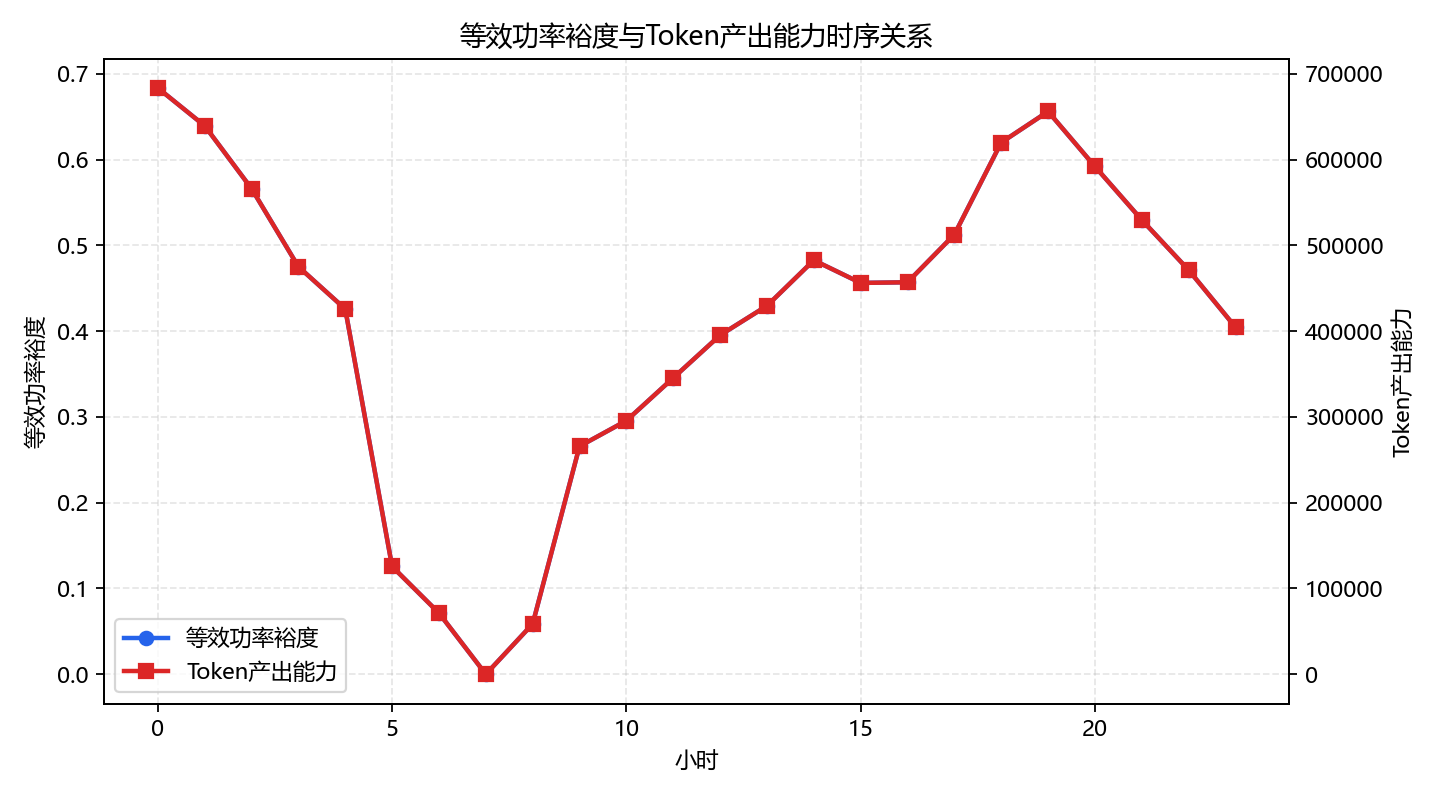
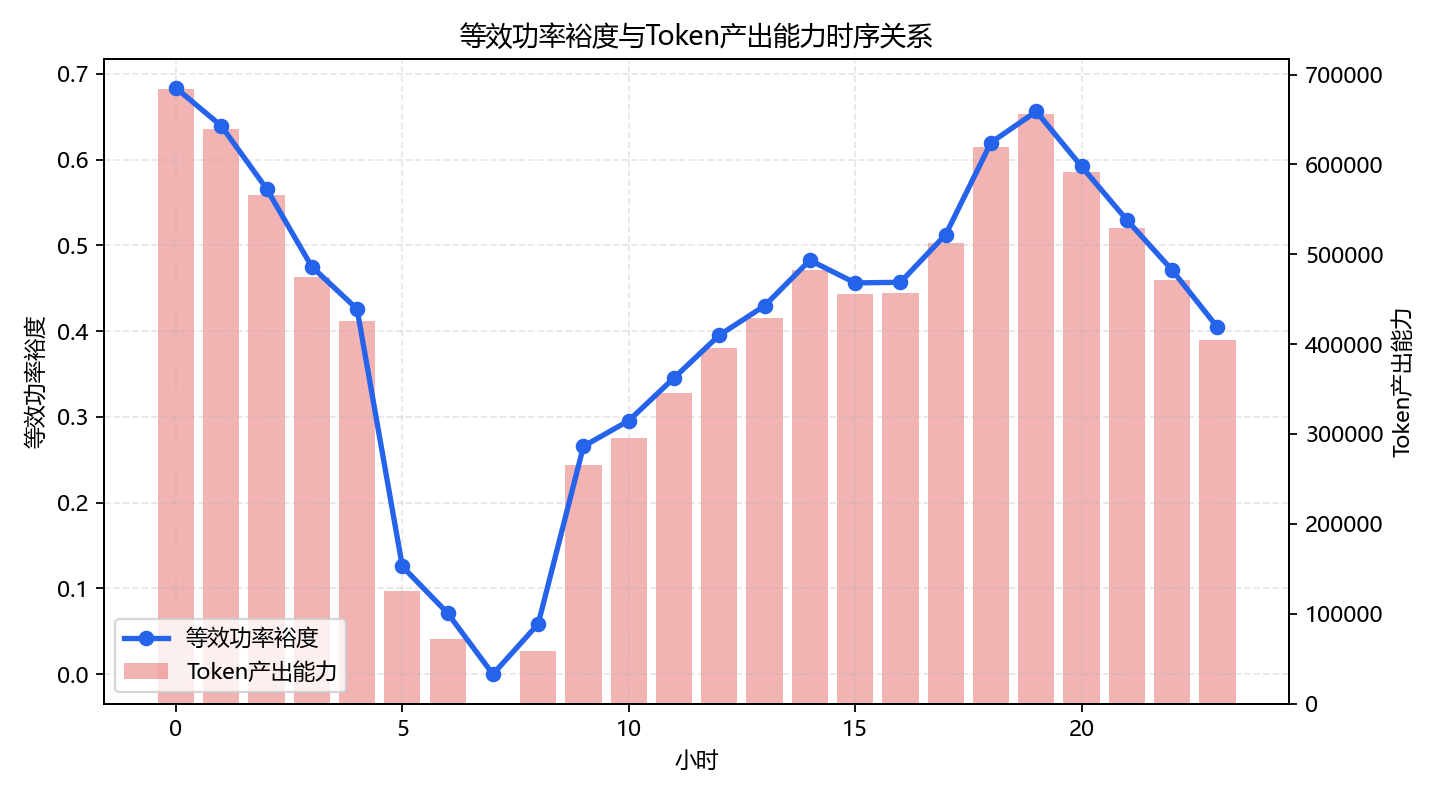
更改图片

diff --git a/experiments/exp_token_export.py b/experiments/exp_token_export.py
@@ -354,6 +354,40 @@ def _plot_bar(df: pd.DataFrame, x: str, y: str, path: Path, title: str, ylabel: 
     plt.close(fig)
 
 
+def _plot_profit_latency_tradeoff(summary: pd.DataFrame, output_dir: Path) -> None:
+    setup_chinese_matplotlib()
+    import matplotlib.pyplot as plt
+
+    plot_df = summary.copy()
+    plot_df["strategy_label"] = plot_df["strategy"].map(STRATEGY_LABELS).fillna(plot_df["strategy"])
+
+    fig, ax1 = plt.subplots(figsize=(9, 5))
+    bars = ax1.bar(plot_df["strategy_label"], plot_df["net_token_profit"], color="#2563eb", label="Token净收益")
+    ax1.set_title("Token出口策略收益与时延权衡对比")
+    ax1.set_xlabel("策略")
+    ax1.set_ylabel("Token净收益")
+    ax1.tick_params(axis="x", rotation=20)
+    ax1.grid(True, axis="y", linestyle="--", alpha=0.3)
+
+    ax2 = ax1.twinx()
+    line = ax2.plot(
+        plot_df["strategy_label"],
+        plot_df["avg_cross_timezone_delay"],
+        marker="o",
+        linewidth=2,
+        color="#dc2626",
+        label="平均跨时区时延",
+    )
+    ax2.set_ylabel("平均跨时区时延/h")
+
+    handles = [bars, line[0]]
+    labels = ["Token净收益", "平均跨时区时延"]
+    ax1.legend(handles, labels, loc="best")
+    fig.tight_layout()
+    fig.savefig(output_dir / "token_profit_latency_tradeoff.png")
+    plt.close(fig)
+
+
 def _plot_sensitivity(sensitivity: pd.DataFrame, output_dir: Path) -> None:
     setup_chinese_matplotlib()
     import matplotlib.pyplot as plt
@@ -418,6 +452,7 @@ def _plot_outputs(summary: pd.DataFrame, hourly_results: pd.DataFrame, region_re
     _plot_region_export(plot_region_results, output_dir)
     _plot_bar(plot_summary, "strategy", "net_token_profit", output_dir / "token_profit_comparison.png", "不同Token出口策略净收益对比", "净收益")
     _plot_bar(plot_summary, "strategy", "avg_cross_timezone_delay", output_dir / "cross_timezone_latency.png", "不同Token出口策略跨时区服务时延对比", "平均时延/h")
+    _plot_profit_latency_tradeoff(plot_summary, output_dir)
 
     # Rebuild the curve from RH-TEO rows so the x-axis is the fused margin.
     rh_rows = hourly_results[hourly_results["strategy"] == "RH-TEO"].sort_values("token_capacity")
@@ -431,15 +466,31 @@ def _plot_outputs(summary: pd.DataFrame, hourly_results: pd.DataFrame, region_re
 
     rh_time = hourly_results[hourly_results["strategy"] == "RH-TEO"].sort_values("hour")
     fig, ax1 = plt.subplots(figsize=(9, 5))
-    ax1.plot(rh_time["hour"], rh_time["power_margin_norm"], marker="o", linewidth=2, color="#2563eb", label="等效功率裕度")
+    margin_line = ax1.plot(
+        rh_time["hour"],
+        rh_time["power_margin_norm"],
+        marker="o",
+        linewidth=2.4,
+        color="#2563eb",
+        label="等效功率裕度",
+        zorder=3,
+    )
     ax1.set_xlabel("小时")
     ax1.set_ylabel("等效功率裕度")
     ax1.grid(True, linestyle="--", alpha=0.3)
     ax2 = ax1.twinx()
-    ax2.plot(rh_time["hour"], rh_time["token_capacity"], marker="s", linewidth=2, color="#dc2626", label="Token产出能力")
+    capacity_bars = ax2.bar(
+        rh_time["hour"],
+        rh_time["token_capacity"],
+        color="#dc2626",
+        alpha=0.35,
+        label="Token产出能力",
+        zorder=1,
+    )
     ax2.set_ylabel("Token产出能力")
-    lines = ax1.get_lines() + ax2.get_lines()
-    ax1.legend(lines, [line.get_label() for line in lines], loc="best")
+    ax1.set_zorder(ax2.get_zorder() + 1)
+    ax1.patch.set_visible(False)
+    ax1.legend([margin_line[0], capacity_bars], ["等效功率裕度", "Token产出能力"], loc="best")
     ax1.set_title("等效功率裕度与Token产出能力时序关系")
     fig.tight_layout()
     fig.savefig(output_dir / "power_margin_token_capacity_timeseries.png")
@@ -524,7 +575,7 @@ def run_token_export(
         "“不出口”作为零出口基准保留在结果表中，不参与主要图表展示；主要图表比较的是实际发生 Token 出口的策略。",
         "“不出口”无跨时区服务时延，因此不参与跨时区服务时延图比较。",
         "",
-        "生成图表: hourly_token_capacity, token_export_by_region, token_profit_comparison, cross_timezone_latency, power_margin_token_capacity_timeseries, power_to_token_curve, rh_teo_allocation_curve, token_sensitivity。",
+        "生成图表: hourly_token_capacity, token_export_by_region, token_profit_comparison, cross_timezone_latency, token_profit_latency_tradeoff, power_margin_token_capacity_timeseries, power_to_token_curve, rh_teo_allocation_curve, token_sensitivity。",
     ]
     summary_path = write_text(output_dir / "token_export_summary.txt", summary_lines)
 

diff --git a/docs/figure_table_list.md b/docs/figure_table_list.md
@@ -8,14 +8,15 @@
 4. 三层数据融合下的等效功率裕度：`outputs/nbsdc_fusion/three_layer_power_margin.png`
 5. 基准裕度与三层融合裕度对比：`outputs/nbsdc_fusion/power_margin_baseline_vs_fused.png`
 6. 不同机房小时级任务分布热力图：`outputs/nbsdc_fusion/room_hourly_task_heatmap.png`
-7. 等效功率裕度与Token产出能力时序关系：`outputs/token_export/power_margin_token_capacity_timeseries.png`
-8. 不同Token出口策略净收益对比：`outputs/token_export/token_profit_comparison.png`
-9. 不同地区Token出口量对比：`outputs/token_export/token_export_by_region.png`
-10. 不同策略跨时区服务时延对比：`outputs/token_export/cross_timezone_latency.png`
+7. 等效功率裕度与Token产出能力时序关系：`outputs/token_export/power_margin_token_capacity_timeseries.png`，用于展示等效功率裕度到 Token 产出能力的映射关系，属于模型关系说明图，不作为核心策略优劣对比图。
+8. Token出口策略收益与时延权衡对比：`outputs/token_export/token_profit_latency_tradeoff.png`
+9. 不同Token出口策略净收益对比：`outputs/token_export/token_profit_comparison.png`
+10. 不同地区Token出口量对比：`outputs/token_export/token_export_by_region.png`
 11. Token出口关键参数敏感性分析：`outputs/token_export/token_sensitivity.png`
 
 ## 辅助图
 
+- 不同Token出口策略跨时区服务时延对比：`outputs/token_export/cross_timezone_latency.png`
 - 小时级Token产出能力：`outputs/token_export/hourly_token_capacity.png`
 - RH-TEO策略下跨时区Token分配曲线：`outputs/token_export/rh_teo_allocation_curve.png`
 - 芯片实际功率与功率上限对比：`outputs/nbsdc_fusion/chip_actual_vs_cap.png`
